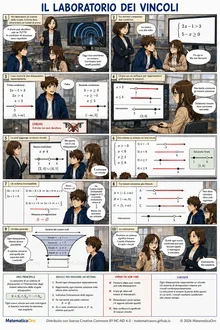
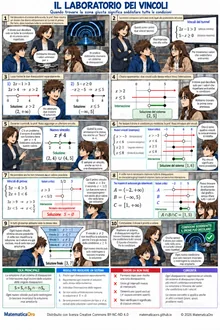
Aggiorna tavole 020 e 045-054

diff --git a/fumetti/chiara-luca/viewer.html b/fumetti/chiara-luca/viewer.html
@@ -41,7 +41,7 @@ button:hover,a.ctrl:hover{background:#f6f8fb}
 <div class="navbottom"><button id="prev2">← Tavola precedente</button><a class="ctrl" href="index.html">Chiara e Luca</a><button id="next2">Tavola successiva →</button></div>
 <div class="note">Scorrimento libero con ↑ ↓, PageUp/PageDown, rotellina e touch.</div>
 <script>
-const items=[{"id": "001", "title": "Introduzione: Il quattro", "pages": ["assets/tavola001_ba07caa5bc.webp"]}, {"id": "002", "title": "I numeri che contano", "pages": ["assets/tavola002_a7fb435046.webp"]}, {"id": "003", "title": "Le potenze dei numeri interi — Tre non significa moltiplicare!", "pages": ["assets/tavola003_322e441ec2.webp"]}, {"id": "004", "title": "Le potenze dei numeri interi — Il tranello dei segni", "pages": ["assets/tavola004_4b08a6033e.webp"]}, {"id": "005", "title": "Le frazioni", "pages": ["assets/tavola005_e47646fc6e.webp"]}, {"id": "021", "title": "Il mondo dei radicali", "pages": ["assets/tavola021_ec1e2b8f02.webp"]}, {"id": "022", "title": "Il laboratorio dei radicali", "pages": ["assets/tavola022_378fd4ea02.webp"]}, {"id": "023", "title": "Fuori o dentro?", "pages": ["assets/tavola023_ff43757688.webp"]}, {"id": "006", "title": "Monomi — Il detective delle espressioni", "pages": ["assets/tavola006_7a632c6c2d.webp"]}, {"id": "007", "title": "Monomi — Una passeggiata in paese", "pages": ["assets/tavola007_11a688b3fb.webp"]}, {"id": "008", "title": "Il polinomio fantasma", "pages": ["assets/tavola008_61724e11bf.webp"]}, {"id": "009", "title": "Black Box — La legge nascosta", "pages": ["assets/tavola009_62f164f802.webp"]}, {"id": "010", "title": "La cassaforte algebrica — Il quadrato di un binomio", "pages": ["assets/tavola010_0e0e9e3c5b.webp"]}, {"id": "011", "title": "Il quadrato mancante", "pages": ["assets/tavola011_59ca163d76.webp"]}, {"id": "012", "title": "Divisione tra polinomi", "pages": ["assets/tavola012_398da585f3.webp"]}, {"id": "013", "title": "Il resto impossibile", "pages": ["assets/tavola013_be70b36726.webp"]}, {"id": "014", "title": "L’equilibrio perfetto", "pages": ["assets/tavola014_31fe82237f.webp"]}, {"id": "015", "title": "Le equazioni lineari", "pages": ["assets/tavola015_2ad3c366fa.webp"]}, {"id": "018", "title": "Il ponte proibito", "pages": ["assets/tavola018_6682f2327f.webp"]}, {"id": "019", "title": "Il divieto nascosto", "pages": ["assets/tavola019_94f66800bc.webp"]}, {"id": "020", "title": "Il laboratorio dei vincoli", "pages": ["assets/tavola020_2401e3166b.webp"]}, {"id": "024", "title": "Le equazioni di secondo grado", "pages": ["assets/tavola024_8c9c4b10fa.webp"]}, {"id": "031", "title": "Il salto giusto", "pages": ["assets/tavola031_63ec4fb9eb.webp"]}, {"id": "032", "title": "Il reticolo", "pages": ["assets/tavola032_3597dd6840.webp"]}, {"id": "016", "title": "Gli indizi della congruenza", "pages": ["assets/tavola016_51e57bf6d8.webp"]}, {"id": "017", "title": "A caccia di triangoli congruenti", "pages": ["assets/tavola017_a70c28529b.webp"]}, {"id": "035", "title": "Il triangolo isoscele", "pages": ["assets/tavola035_012c0288bf.webp"]}, {"id": "033", "title": "Lo schermo storto", "pages": ["assets/tavola033_c170cbbb97.webp"]}, {"id": "034", "title": "Gli angoli alla circonferenza", "pages": ["assets/tavola034_042983fbe8.webp"]}, {"id": "029", "title": "Il sentiero delle proporzioni", "pages": ["assets/tavola029_a5b940e97c.webp"]}, {"id": "037", "title": "La distanza che non si vede", "pages": ["assets/tavola037_9afcf85601.webp"]}, {"id": "036", "title": "Il punto più vicino", "pages": ["assets/tavola036_44a898837d.webp"]}, {"id": "026", "title": "Quanto è ripida?", "pages": ["assets/tavola026_0368eb43c3.webp"]}, {"id": "025", "title": "La traiettoria perfetta", "pages": ["assets/tavola025_e91a6b7d6a.webp"]}, {"id": "039", "title": "La ruota delle coordinate", "pages": ["assets/tavola039_dd21e95f70.webp"]}, {"id": "040", "title": "Quanto passa vicino?", "pages": ["assets/tavola040_bf1c24bc97.webp"]}, {"id": "038", "title": "Due punti, un solo giardino", "pages": ["assets/tavola038a_912ff3e7bf.webp", "assets/tavola038b_7a06b29dbd.webp"]}, {"id": "027", "title": "Due avventure, due rette", "pages": ["assets/tavola027_53c073ab0a.webp"]}, {"id": "028", "title": "Spazio, tempo, coraggio", "pages": ["assets/tavola028_b1cbc1dc5f.webp"]}, {"id": "030", "title": "Il tiro giusto", "pages": ["assets/tavola030_9594934a73.webp"]}, {"id": "041", "title": "Quello che non si misura", "pages": ["assets/tavola041_2c711f49fa.webp"]}, {"id": "042", "title": "Sempre più vicino", "pages": ["assets/tavola042_32cee0aae0.webp"]}, {"id": "043", "title": "Da destra o da sinistra?", "pages": ["assets/tavola043_7435277fc6.webp"]}, {"id": "044", "title": "Il punto che manca", "pages": ["assets/tavola044_7bd4580629.webp"]}];
+const items=[{"id": "001", "title": "Introduzione: Il quattro", "pages": ["assets/tavola001_ba07caa5bc.webp"]}, {"id": "002", "title": "I numeri che contano", "pages": ["assets/tavola002_a7fb435046.webp"]}, {"id": "003", "title": "Le potenze dei numeri interi — Tre non significa moltiplicare!", "pages": ["assets/tavola003_322e441ec2.webp"]}, {"id": "004", "title": "Le potenze dei numeri interi — Il tranello dei segni", "pages": ["assets/tavola004_4b08a6033e.webp"]}, {"id": "005", "title": "Le frazioni", "pages": ["assets/tavola005_e47646fc6e.webp"]}, {"id": "021", "title": "Il mondo dei radicali", "pages": ["assets/tavola021_ec1e2b8f02.webp"]}, {"id": "022", "title": "Il laboratorio dei radicali", "pages": ["assets/tavola022_378fd4ea02.webp"]}, {"id": "023", "title": "Fuori o dentro?", "pages": ["assets/tavola023_ff43757688.webp"]}, {"id": "006", "title": "Monomi — Il detective delle espressioni", "pages": ["assets/tavola006_7a632c6c2d.webp"]}, {"id": "007", "title": "Monomi — Una passeggiata in paese", "pages": ["assets/tavola007_11a688b3fb.webp"]}, {"id": "008", "title": "Il polinomio fantasma", "pages": ["assets/tavola008_61724e11bf.webp"]}, {"id": "009", "title": "Black Box — La legge nascosta", "pages": ["assets/tavola009_62f164f802.webp"]}, {"id": "010", "title": "La cassaforte algebrica — Il quadrato di un binomio", "pages": ["assets/tavola010_0e0e9e3c5b.webp"]}, {"id": "011", "title": "Il quadrato mancante", "pages": ["assets/tavola011_59ca163d76.webp"]}, {"id": "012", "title": "Divisione tra polinomi", "pages": ["assets/tavola012_398da585f3.webp"]}, {"id": "013", "title": "Il resto impossibile", "pages": ["assets/tavola013_be70b36726.webp"]}, {"id": "014", "title": "L’equilibrio perfetto", "pages": ["assets/tavola014_31fe82237f.webp"]}, {"id": "015", "title": "Le equazioni lineari", "pages": ["assets/tavola015_2ad3c366fa.webp"]}, {"id": "018", "title": "Il ponte proibito", "pages": ["assets/tavola018_6682f2327f.webp"]}, {"id": "019", "title": "Il divieto nascosto", "pages": ["assets/tavola019_94f66800bc.webp"]}, {"id": "020", "title": "Il laboratorio dei vincoli", "pages": ["assets/tavola020_74cea5d793.webp"]}, {"id": "024", "title": "Le equazioni di secondo grado", "pages": ["assets/tavola024_8c9c4b10fa.webp"]}, {"id": "031", "title": "Il salto giusto", "pages": ["assets/tavola031_63ec4fb9eb.webp"]}, {"id": "032", "title": "Il reticolo", "pages": ["assets/tavola032_3597dd6840.webp"]}, {"id": "016", "title": "Gli indizi della congruenza", "pages": ["assets/tavola016_51e57bf6d8.webp"]}, {"id": "017", "title": "A caccia di triangoli congruenti", "pages": ["assets/tavola017_a70c28529b.webp"]}, {"id": "035", "title": "Il triangolo isoscele", "pages": ["assets/tavola035_012c0288bf.webp"]}, {"id": "033", "title": "Lo schermo storto", "pages": ["assets/tavola033_c170cbbb97.webp"]}, {"id": "034", "title": "Gli angoli alla circonferenza", "pages": ["assets/tavola034_042983fbe8.webp"]}, {"id": "029", "title": "Il sentiero delle proporzioni", "pages": ["assets/tavola029_a5b940e97c.webp"]}, {"id": "037", "title": "La distanza che non si vede", "pages": ["assets/tavola037_9afcf85601.webp"]}, {"id": "036", "title": "Il punto più vicino", "pages": ["assets/tavola036_44a898837d.webp"]}, {"id": "026", "title": "Quanto è ripida?", "pages": ["assets/tavola026_0368eb43c3.webp"]}, {"id": "025", "title": "La traiettoria perfetta", "pages": ["assets/tavola025_e91a6b7d6a.webp"]}, {"id": "039", "title": "La ruota delle coordinate", "pages": ["assets/tavola039_dd21e95f70.webp"]}, {"id": "040", "title": "Quanto passa vicino?", "pages": ["assets/tavola040_bf1c24bc97.webp"]}, {"id": "038", "title": "Due punti, un solo giardino", "pages": ["assets/tavola038a_912ff3e7bf.webp", "assets/tavola038b_7a06b29dbd.webp"]}, {"id": "027", "title": "Due avventure, due rette", "pages": ["assets/tavola027_53c073ab0a.webp"]}, {"id": "028", "title": "Spazio, tempo, coraggio", "pages": ["assets/tavola028_b1cbc1dc5f.webp"]}, {"id": "030", "title": "Il tiro giusto", "pages": ["assets/tavola030_9594934a73.webp"]}, {"id": "048", "title": "Gli stessi numeri", "pages": ["assets/tavola048_b48a6aa0e2.webp"]}, {"id": "045", "title": "Il numero nascosto", "pages": ["assets/tavola045_db55781060.webp"]}, {"id": "047", "title": "Il logaritmo nascosto", "pages": ["assets/tavola047_e7714b216f.webp"]}, {"id": "050", "title": "Dove sarà tra un quarto di giro?", "pages": ["assets/tavola050a_87bded15c1.webp", "assets/tavola050b_4d11dfcf44.webp"]}, {"id": "041", "title": "Quello che non si misura", "pages": ["assets/tavola041_2c711f49fa.webp"]}, {"id": "046", "title": "La parola data", "pages": ["assets/tavola046a_1d96c37e9f.webp", "assets/tavola046b_9904c0c5c5.webp"]}, {"id": "049", "title": "Cinque minuti ancora", "pages": ["assets/tavola049_9b9a4dcac8.webp"]}, {"id": "052", "title": "Non devi sapere già tutto", "pages": ["assets/tavola052_0e46333540.webp"]}, {"id": "053", "title": "Non tutto in una volta", "pages": ["assets/tavola053_325db48fbf.webp"]}, {"id": "042", "title": "Sempre più vicino", "pages": ["assets/tavola042_32cee0aae0.webp"]}, {"id": "043", "title": "Da destra o da sinistra?", "pages": ["assets/tavola043_7435277fc6.webp"]}, {"id": "044", "title": "Il punto che manca", "pages": ["assets/tavola044_7bd4580629.webp"]}, {"id": "051", "title": "L'istante che sfugge", "pages": ["assets/tavola051_6586271dce.webp"]}, {"id": "054", "title": "Derivare senza fare danni", "pages": ["assets/tavola054a_cef7862d01.webp", "assets/tavola054b_2efcc3b60c.webp"]}];
 let idx=0,zoom=1;
 const viewer=document.getElementById('viewer'),chooser=document.getElementById('chooser'),label=document.getElementById('zoomLabel');
 function apply(){

diff --git a/fumetti/chiara-luca/chiara-luca.html b/fumetti/chiara-luca/chiara-luca.html
@@ -363,6 +363,14 @@ h1{font-family:Georgia,"Times New Roman",serif;color:var(--blue2);font-size:2.35
         <p>Probabilità con uno e due dadi</p>
         <span class="badge">Livello 2</span>
       </div>
+    </a><a class="story-card" href="viewer.html#048">
+      <img src="thumbs/048.webp" alt="" loading="lazy" draggable="false">
+      <div class="story-copy">
+        <div class="story-code">048</div>
+        <h4>Gli stessi numeri</h4>
+        <p>Lettura critica di grafici e scale</p>
+        <span class="badge">Livello 2</span>
+      </div>
     </a></div></div></div>
     </details><details class="level" >
       <summary><span>Livello 3</span><span class="summary-note">Contenuti disponibili</span></summary>
@@ -392,14 +400,35 @@ h1{font-family:Georgia,"Times New Roman",serif;color:var(--blue2);font-size:2.35
       </div>
     </a></div></div></div>
     </details><details class="level" >
-      <summary><span>Livello 4</span><span class="summary-note">In preparazione</span></summary>
-      <div class="level-body"><div class="topic empty-topic">
-              <h3>Esponenziali e logaritmi</h3>
-              <div class="coming">Contenuti in preparazione</div>
-            </div><div class="topic empty-topic">
-              <h3>Goniometria e trigonometria</h3>
-              <div class="coming">Contenuti in preparazione</div>
-            </div></div>
+      <summary><span>Livello 4</span><span class="summary-note">Contenuti disponibili</span></summary>
+      <div class="level-body">
+        <div class="topic"><h3>Esponenziali e logaritmi</h3><div class="story-grid"><a class="story-card" href="viewer.html#045">
+      <img src="thumbs/045.webp" alt="" loading="lazy" draggable="false">
+      <div class="story-copy">
+        <div class="story-code">045</div>
+        <h4>Il numero nascosto</h4>
+        <p>Definizione di logaritmo</p>
+        <span class="badge">Livello 4</span>
+      </div>
+    </a><a class="story-card" href="viewer.html#047">
+      <img src="thumbs/047.webp" alt="" loading="lazy" draggable="false">
+      <div class="story-copy">
+        <div class="story-code">047</div>
+        <h4>Il logaritmo nascosto</h4>
+        <p>Equazioni logaritmiche e condizioni di esistenza</p>
+        <span class="badge">Livello 4</span>
+      </div>
+    </a></div></div>
+        <div class="topic"><h3>Goniometria e trigonometria</h3><div class="story-grid"><a class="story-card" href="viewer.html#050">
+      <img src="thumbs/050.webp" alt="" loading="lazy" draggable="false">
+      <div class="story-copy">
+        <div class="story-code">050</div>
+        <h4>Dove sarà tra un quarto di giro?</h4>
+        <p>Angoli e coordinate sulla circonferenza goniometrica</p>
+        <span class="badge">Livello 4</span>
+      </div>
+    </a></div></div>
+      </div>
     </details><details class="level" >
       <summary><span>Livello 5</span><span class="summary-note">Contenuti disponibili</span></summary>
       <div class="level-body"><div class="topic"><h3>Analisi — Limiti</h3><div class="story-grid"><a class="story-card" href="viewer.html#042">
@@ -426,13 +455,33 @@ h1{font-family:Georgia,"Times New Roman",serif;color:var(--blue2);font-size:2.35
         <p>Limite e discontinuità eliminabile</p>
         <span class="badge">Livello 5</span>
       </div>
+    </a><a class="story-card" href="viewer.html#051">
+      <img src="thumbs/051.webp" alt="" loading="lazy" draggable="false">
+      <div class="story-copy">
+        <div class="story-code">051</div>
+        <h4>L'istante che sfugge</h4>
+        <p>Dalla velocità media alla velocità istantanea</p>
+        <span class="badge">Livello 5</span>
+      </div>
+    </a><a class="story-card" href="viewer.html#054">
+      <img src="thumbs/054.webp" alt="" loading="lazy" draggable="false">
+      <div class="story-copy">
+        <div class="story-code">054</div>
+        <h4>Derivare senza fare danni</h4>
+        <p>Regole di derivazione</p>
+        <span class="badge">Livello 5</span>
+      </div>
     </a></div></div></div>
     </details>
 
 <section class="narrative" id="storie">
   <h2>Storie di Chiara e Luca</h2>
   <p>Alcune tavole hanno una funzione soprattutto narrativa e accompagnano la crescita dei personaggi senza introdurre necessariamente un nuovo contenuto matematico.</p>
-  <a class="btn btn-light" href="viewer.html#041">041 · Quello che non si misura</a>
+  <a class="btn btn-light" href="viewer.html#041">041 · Quello che non si misura</a> 
+  <a class="btn btn-light" href="viewer.html#046">046 · La parola data</a>
+  <a class="btn btn-light" href="viewer.html#049">049 · Cinque minuti ancora</a>
+  <a class="btn btn-light" href="viewer.html#052">052 · Non devi sapere già tutto</a>
+  <a class="btn btn-light" href="viewer.html#053">053 · Non tutto in una volta</a>
 </section>
 
 <div class="footer">Autori: M. Prandelli · I. Castellari &nbsp; · &nbsp; Distribuito con licenza Creative Commons BY-NC-ND 4.0 &nbsp; · &nbsp; © 2026 MatematicaOro</div>

diff --git a/fumetti/chiara-luca/index.html b/fumetti/chiara-luca/index.html
@@ -363,6 +363,14 @@ h1{font-family:Georgia,"Times New Roman",serif;color:var(--blue2);font-size:2.35
         <p>Probabilità con uno e due dadi</p>
         <span class="badge">Livello 2</span>
       </div>
+    </a><a class="story-card" href="viewer.html#048">
+      <img src="thumbs/048.webp" alt="" loading="lazy" draggable="false">
+      <div class="story-copy">
+        <div class="story-code">048</div>
+        <h4>Gli stessi numeri</h4>
+        <p>Lettura critica di grafici e scale</p>
+        <span class="badge">Livello 2</span>
+      </div>
     </a></div></div></div>
     </details><details class="level" >
       <summary><span>Livello 3</span><span class="summary-note">Contenuti disponibili</span></summary>
@@ -392,14 +400,35 @@ h1{font-family:Georgia,"Times New Roman",serif;color:var(--blue2);font-size:2.35
       </div>
     </a></div></div></div>
     </details><details class="level" >
-      <summary><span>Livello 4</span><span class="summary-note">In preparazione</span></summary>
-      <div class="level-body"><div class="topic empty-topic">
-              <h3>Esponenziali e logaritmi</h3>
-              <div class="coming">Contenuti in preparazione</div>
-            </div><div class="topic empty-topic">
-              <h3>Goniometria e trigonometria</h3>
-              <div class="coming">Contenuti in preparazione</div>
-            </div></div>
+      <summary><span>Livello 4</span><span class="summary-note">Contenuti disponibili</span></summary>
+      <div class="level-body">
+        <div class="topic"><h3>Esponenziali e logaritmi</h3><div class="story-grid"><a class="story-card" href="viewer.html#045">
+      <img src="thumbs/045.webp" alt="" loading="lazy" draggable="false">
+      <div class="story-copy">
+        <div class="story-code">045</div>
+        <h4>Il numero nascosto</h4>
+        <p>Definizione di logaritmo</p>
+        <span class="badge">Livello 4</span>
+      </div>
+    </a><a class="story-card" href="viewer.html#047">
+      <img src="thumbs/047.webp" alt="" loading="lazy" draggable="false">
+      <div class="story-copy">
+        <div class="story-code">047</div>
+        <h4>Il logaritmo nascosto</h4>
+        <p>Equazioni logaritmiche e condizioni di esistenza</p>
+        <span class="badge">Livello 4</span>
+      </div>
+    </a></div></div>
+        <div class="topic"><h3>Goniometria e trigonometria</h3><div class="story-grid"><a class="story-card" href="viewer.html#050">
+      <img src="thumbs/050.webp" alt="" loading="lazy" draggable="false">
+      <div class="story-copy">
+        <div class="story-code">050</div>
+        <h4>Dove sarà tra un quarto di giro?</h4>
+        <p>Angoli e coordinate sulla circonferenza goniometrica</p>
+        <span class="badge">Livello 4</span>
+      </div>
+    </a></div></div>
+      </div>
     </details><details class="level" >
       <summary><span>Livello 5</span><span class="summary-note">Contenuti disponibili</span></summary>
       <div class="level-body"><div class="topic"><h3>Analisi — Limiti</h3><div class="story-grid"><a class="story-card" href="viewer.html#042">
@@ -426,13 +455,33 @@ h1{font-family:Georgia,"Times New Roman",serif;color:var(--blue2);font-size:2.35
         <p>Limite e discontinuità eliminabile</p>
         <span class="badge">Livello 5</span>
       </div>
+    </a><a class="story-card" href="viewer.html#051">
+      <img src="thumbs/051.webp" alt="" loading="lazy" draggable="false">
+      <div class="story-copy">
+        <div class="story-code">051</div>
+        <h4>L'istante che sfugge</h4>
+        <p>Dalla velocità media alla velocità istantanea</p>
+        <span class="badge">Livello 5</span>
+      </div>
+    </a><a class="story-card" href="viewer.html#054">
+      <img src="thumbs/054.webp" alt="" loading="lazy" draggable="false">
+      <div class="story-copy">
+        <div class="story-code">054</div>
+        <h4>Derivare senza fare danni</h4>
+        <p>Regole di derivazione</p>
+        <span class="badge">Livello 5</span>
+      </div>
     </a></div></div></div>
     </details>
 
 <section class="narrative" id="storie">
   <h2>Storie di Chiara e Luca</h2>
   <p>Alcune tavole hanno una funzione soprattutto narrativa e accompagnano la crescita dei personaggi senza introdurre necessariamente un nuovo contenuto matematico.</p>
-  <a class="btn btn-light" href="viewer.html#041">041 · Quello che non si misura</a>
+  <a class="btn btn-light" href="viewer.html#041">041 · Quello che non si misura</a> 
+  <a class="btn btn-light" href="viewer.html#046">046 · La parola data</a>
+  <a class="btn btn-light" href="viewer.html#049">049 · Cinque minuti ancora</a>
+  <a class="btn btn-light" href="viewer.html#052">052 · Non devi sapere già tutto</a>
+  <a class="btn btn-light" href="viewer.html#053">053 · Non tutto in una volta</a>
 </section>
 
 <div class="footer">Autori: M. Prandelli · I. Castellari &nbsp; · &nbsp; Distribuito con licenza Creative Commons BY-NC-ND 4.0 &nbsp; · &nbsp; © 2026 MatematicaOro</div>
